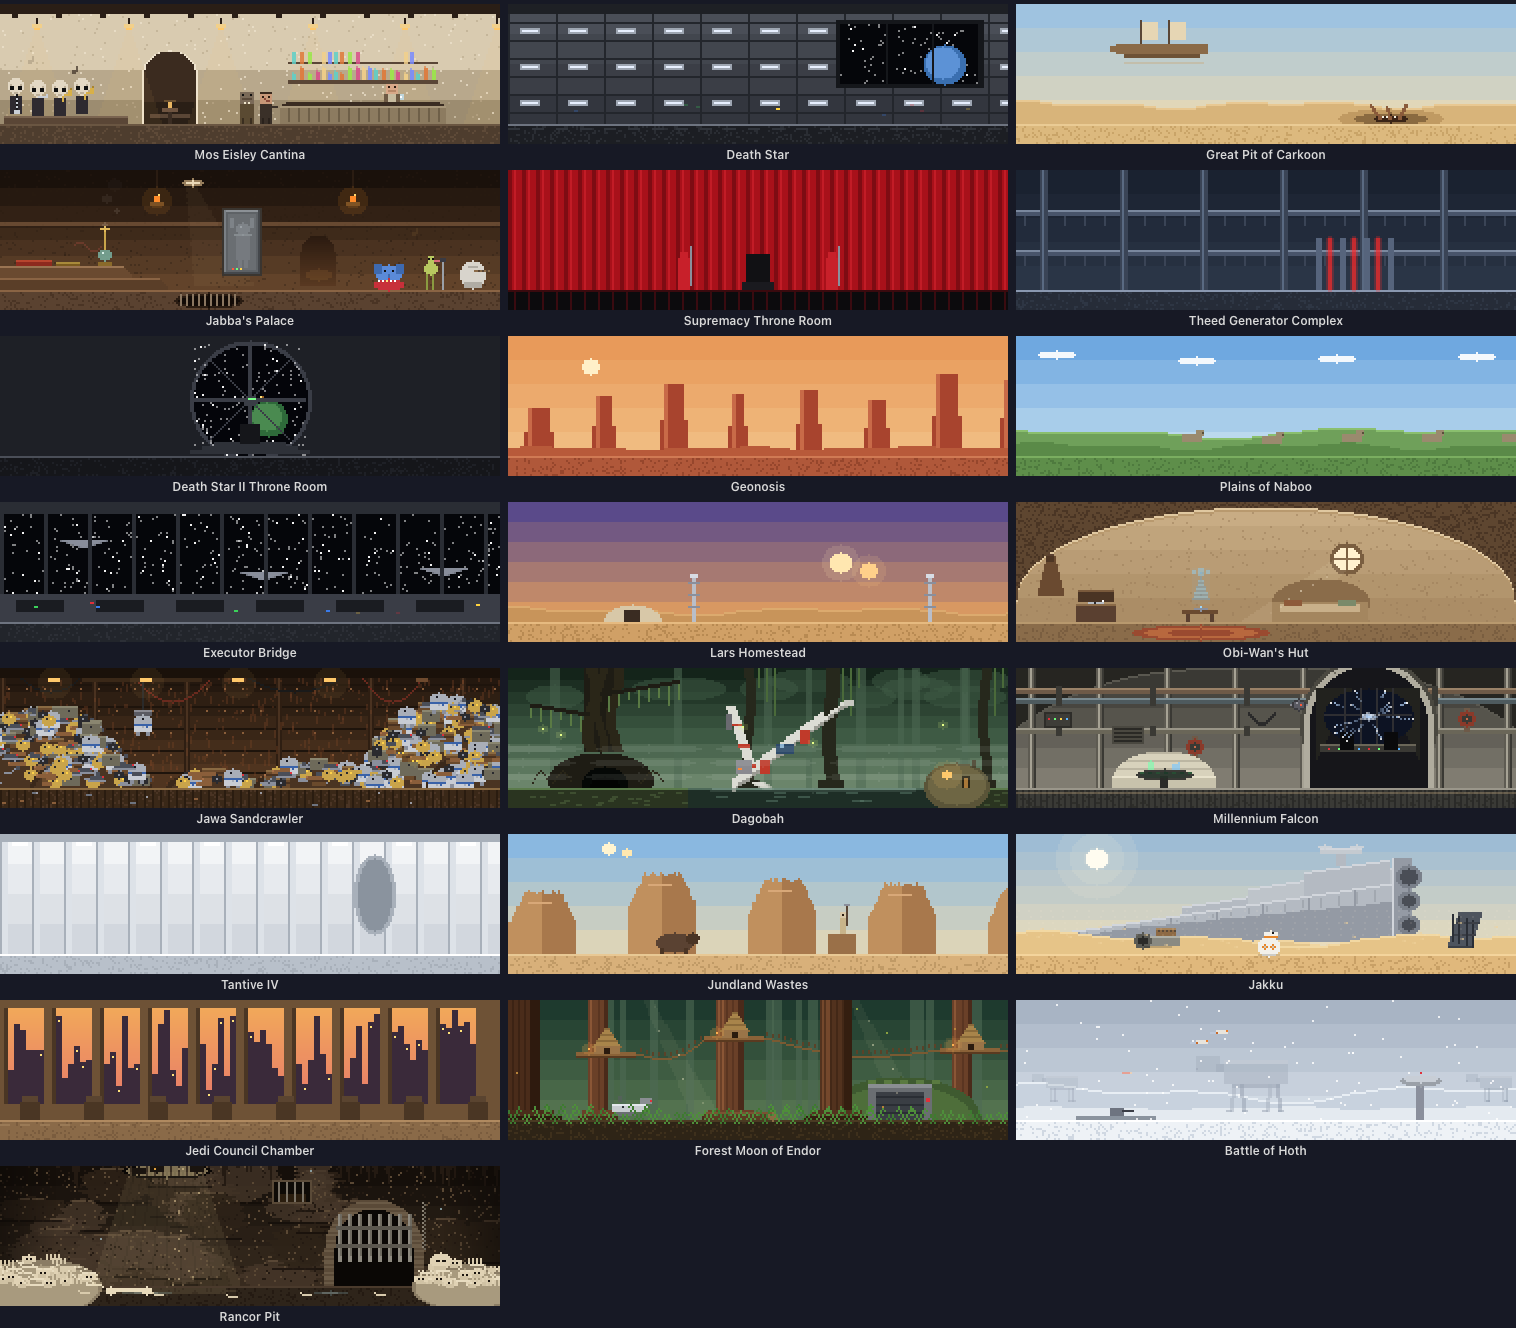
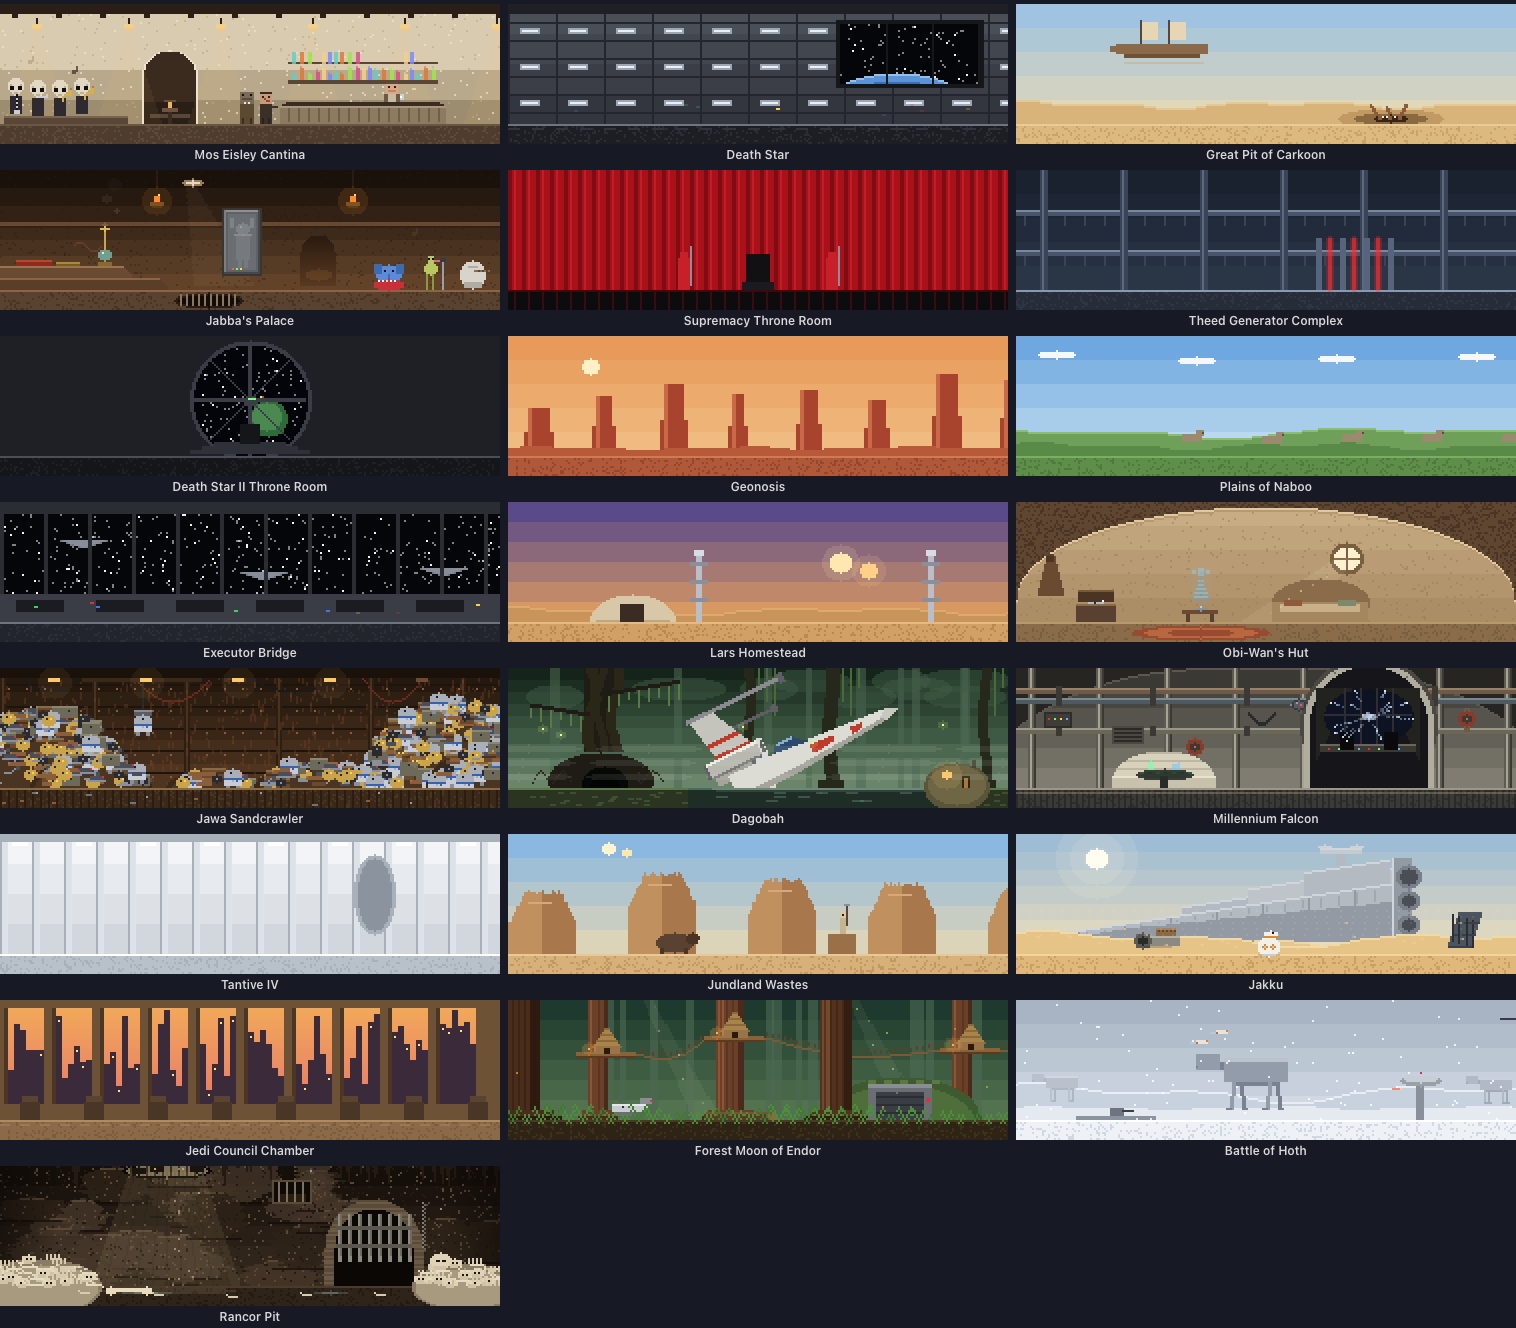
docs(readme): re-render locations and Hoth window, add the screen saver
locations.png showed the old Death Star planet spilling out of its viewport,
the thin Dagobah X-wing, the smaller Lars homestead, the throne room's stars on
the wall and see-through AT-ATs; window-hoth.png the see-through walkers and
the old view-button icon. Both re-rendered from the current code (RenderDocs,
and a Playground run of an isolated copy with CLAWD_SHOT). The roster and
social preview came out the same apart from saber flicker, so they're left
as they were.

New docs/screensaver.png heads the Screen saver section: the Lars homestead at
1440 x 900 with five sessions, a duel, agents and one needing you.

diff --git a/README.md b/README.md
@@ -112,6 +112,10 @@ Several sessions in the same project are grouped under one project header as a t
 
 ## Screen saver
 
+<p align="center">
+  <img src="docs/screensaver.png" alt="The screen saver at the Lars homestead: five sessions' cards over the crew, one needing you, with name tags and beams" width="900">
+</p>
+
 Clawd Wars comes with a screen saver: the window's location at full screen and the crew fighting across its floor. Every Claude and agent wears a name tag over its head. Each session has a card floating above the crew, in its project's colour as in the window, with a dashed beam down to its name. The card shows the status (green working, blue thinking, red **NEEDS YOU**, purple asleep), what it's doing, your last prompt and its agents. With many sessions the cards stagger over two rows. A clock sits top right, and what happened lately (finished prompts, agents joining, sessions falling asleep) crawls along the bottom.
 
 Every 10 minutes it does a Star Wars wipe (a hard edge or a clock wipe) to somewhere new: the home of another character on screen, or anywhere if there's only one. Against burn-in, the clock and the place name swap corners at the same time, and the cards and name tags move up clear of where they were. Ten minutes later they go back.
